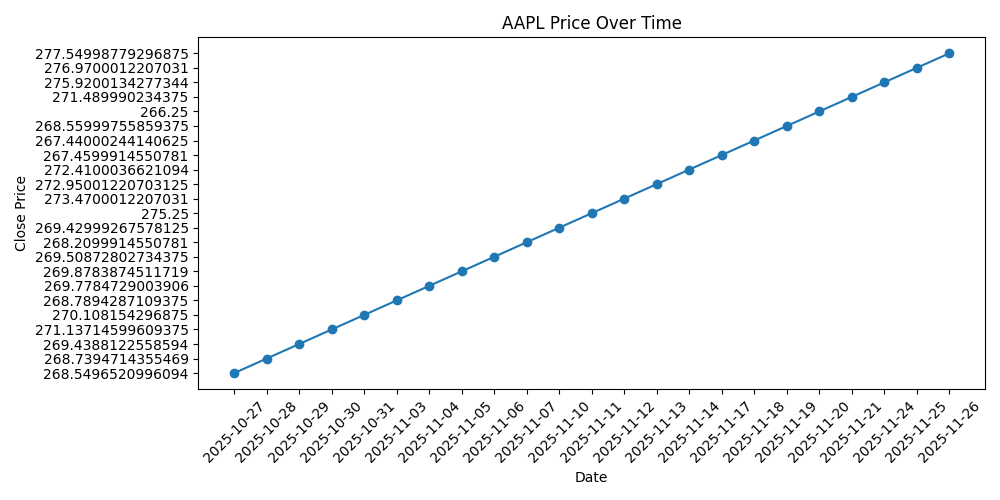
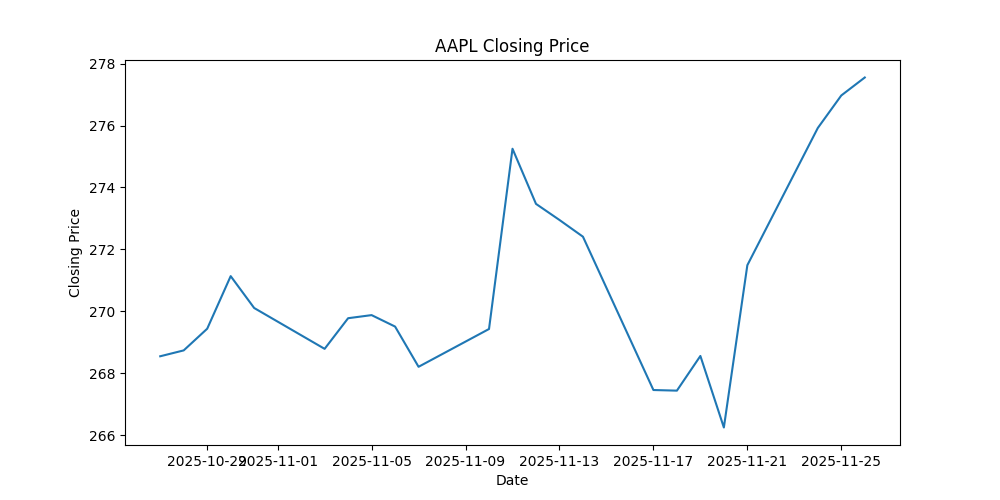
✅ Cleaned pipeline: removed empty tickers, fixed visualize.py, generated AAPL plot

diff --git a/scripts/visualize.py b/scripts/visualize.py
@@ -3,30 +3,96 @@ import sqlite3
 import os
 import matplotlib.pyplot as plt
 
-def generate_plots():
-    project_root = os.path.abspath(os.path.join(os.path.dirname(__file__), ".."))
-    db_file = os.path.join(project_root, "data", "finance.db")
-    
-    conn = sqlite3.connect(db_file)
-    df = pd.read_sql("SELECT * FROM financial_data", conn)
-    conn.close()
-    
-    # Ensure lowercase column names
-    df.columns = [col.lower() for col in df.columns]
+# -----------------------------
+# Paths
+# -----------------------------
+db_path = os.path.join("data", "finance.db")
+output_dir = "plots"
+os.makedirs(output_dir, exist_ok=True)
 
-    symbols = df['symbol'].unique()
-    plots_dir = os.path.join(project_root, "plots")
-    os.makedirs(plots_dir, exist_ok=True)
+# -----------------------------
+# Connect to SQLite
+# -----------------------------
+conn = sqlite3.connect(db_path)
 
-    for symbol in symbols:
-        df_symbol = df[df['symbol'] == symbol]
-        plt.figure(figsize=(10,5))
-        plt.plot(df_symbol['date'], df_symbol['close'], marker='o')  # lowercase 'close'
-        plt.title(f"{symbol} Price Over Time")
-        plt.xlabel("Date")
-        plt.ylabel("Close Price")
-        plt.xticks(rotation=45)
-        plt.tight_layout()
-        plt.savefig(os.path.join(plots_dir, f"{symbol}_plot.png"))
-        plt.close()
-    print(f"Plots saved to: {plots_dir}")
+# Auto-detect table name
+table = conn.execute("SELECT name FROM sqlite_master WHERE type='table';").fetchone()
+if not table:
+    raise Exception("❌ No table found inside finance.db")
+
+table_name = table[0]
+print(f"📌 Detected table: {table_name}")
+
+# Read data
+df = pd.read_sql(f"SELECT * FROM {table_name}", conn)
+
+# -----------------------------
+# Clean Data
+# -----------------------------
+# Drop rows with missing dates or symbols
+df = df[df["date"].notna() & df["symbol"].notna()]
+
+# Convert numeric columns
+num_cols = ["open", "high", "low", "close", "adj_close", "volume"]
+for col in num_cols:
+    df[col] = pd.to_numeric(df[col], errors="coerce")
+
+# Drop rows where all numeric columns are NaN
+df = df.dropna(subset=num_cols, how="all")
+
+# Convert date column
+df["Date"] = pd.to_datetime(df["date"], errors="coerce")
+df = df[df["Date"].notna()]
+
+# -----------------------------
+# Remove tickers with no price data
+# -----------------------------
+tickers_to_remove = []
+for ticker, group in df.groupby("symbol"):
+    if group["close"].isna().all():
+        tickers_to_remove.append(ticker)
+
+if tickers_to_remove:
+    print(f"⚠ Removing tickers with no price data: {tickers_to_remove}")
+    df = df[~df["symbol"].isin(tickers_to_remove)]
+    # Optional: remove permanently from DB
+    for t in tickers_to_remove:
+        conn.execute(f"DELETE FROM {table_name} WHERE symbol = ?", (t,))
+    conn.commit()
+
+# -----------------------------
+# Generate plots
+# -----------------------------
+tickers = df["symbol"].unique()
+group = df.groupby("symbol")
+
+print("\nGenerating plots...\n")
+for ticker in tickers:
+    df_t = group.get_group(ticker)
+    
+    if df_t["close"].isna().all():
+        print(f"⚠ Skipping {ticker} — no price data available")
+        continue
+
+    # Forward/backward fill missing close values
+    df_t["Close"] = df_t["close"].fillna(method="ffill").fillna(method="bfill")
+
+    plt.figure(figsize=(10, 5))
+    plt.plot(df_t["Date"], df_t["Close"])
+    plt.title(f"{ticker} Closing Price")
+    plt.xlabel("Date")
+    plt.ylabel("Closing Price")
+
+    output = os.path.join(output_dir, f"{ticker}_plot.png")
+    plt.savefig(output)
+    plt.close()
+    print(f"✅ Saved plot: {output}")
+
+conn.close()
+print("\nAll plots generated!\n")
+
+# -----------------------------
+# Optional: preview first 5 rows
+# -----------------------------
+print(df.head())
+print("Columns:", df.columns.tolist())

diff --git a/run_pipeline.py b/run_pipeline.py
@@ -1,28 +1,16 @@
-from scripts.fetch_data import fetch_data
-from scripts.transform_data import transform_data
-from scripts.load_to_sqlite import load_to_sqlite
-from scripts.visualize import generate_plots
+# run_pipeline.py
+
+import subprocess
 import os
 
-# Define paths
-project_root = os.path.abspath(os.path.dirname(__file__))
-raw_csv_path = os.path.join(project_root, "data", "raw_data.csv")
-clean_csv_path = os.path.join(project_root, "data", "clean_data.csv")
+print("🚀 Running full ETL + Visualization pipeline...")
 
-# Define symbols to fetch
-symbols = ["AAPL", "MSFT", "GOOG", "TSLA"]
+# Step 1: Fetch data
+print("\nStep 1: Fetching data...")
+subprocess.run(["python", os.path.join("scripts", "fetch_data.py")], check=True)
 
-# Run pipeline
-print("Step 1: Fetching data...")
-fetch_data(symbols, output_file=raw_csv_path)
+# Step 2: Visualize (includes data cleaning inside visualize.py)
+print("\nStep 2: Transform & Generate plots...")
+subprocess.run(["python", os.path.join("scripts", "visualize.py")], check=True)
 
-print("Step 2: Transforming data...")
-transform_data(input_file=raw_csv_path, output_file=clean_csv_path)
-
-print("Step 3: Loading to SQLite...")
-load_to_sqlite(input_file=clean_csv_path)
-
-print("Step 4: Generating plots...")
-generate_plots()
-
-print("Pipeline completed successfully!")
+print("\n✅ Pipeline completed successfully!")
